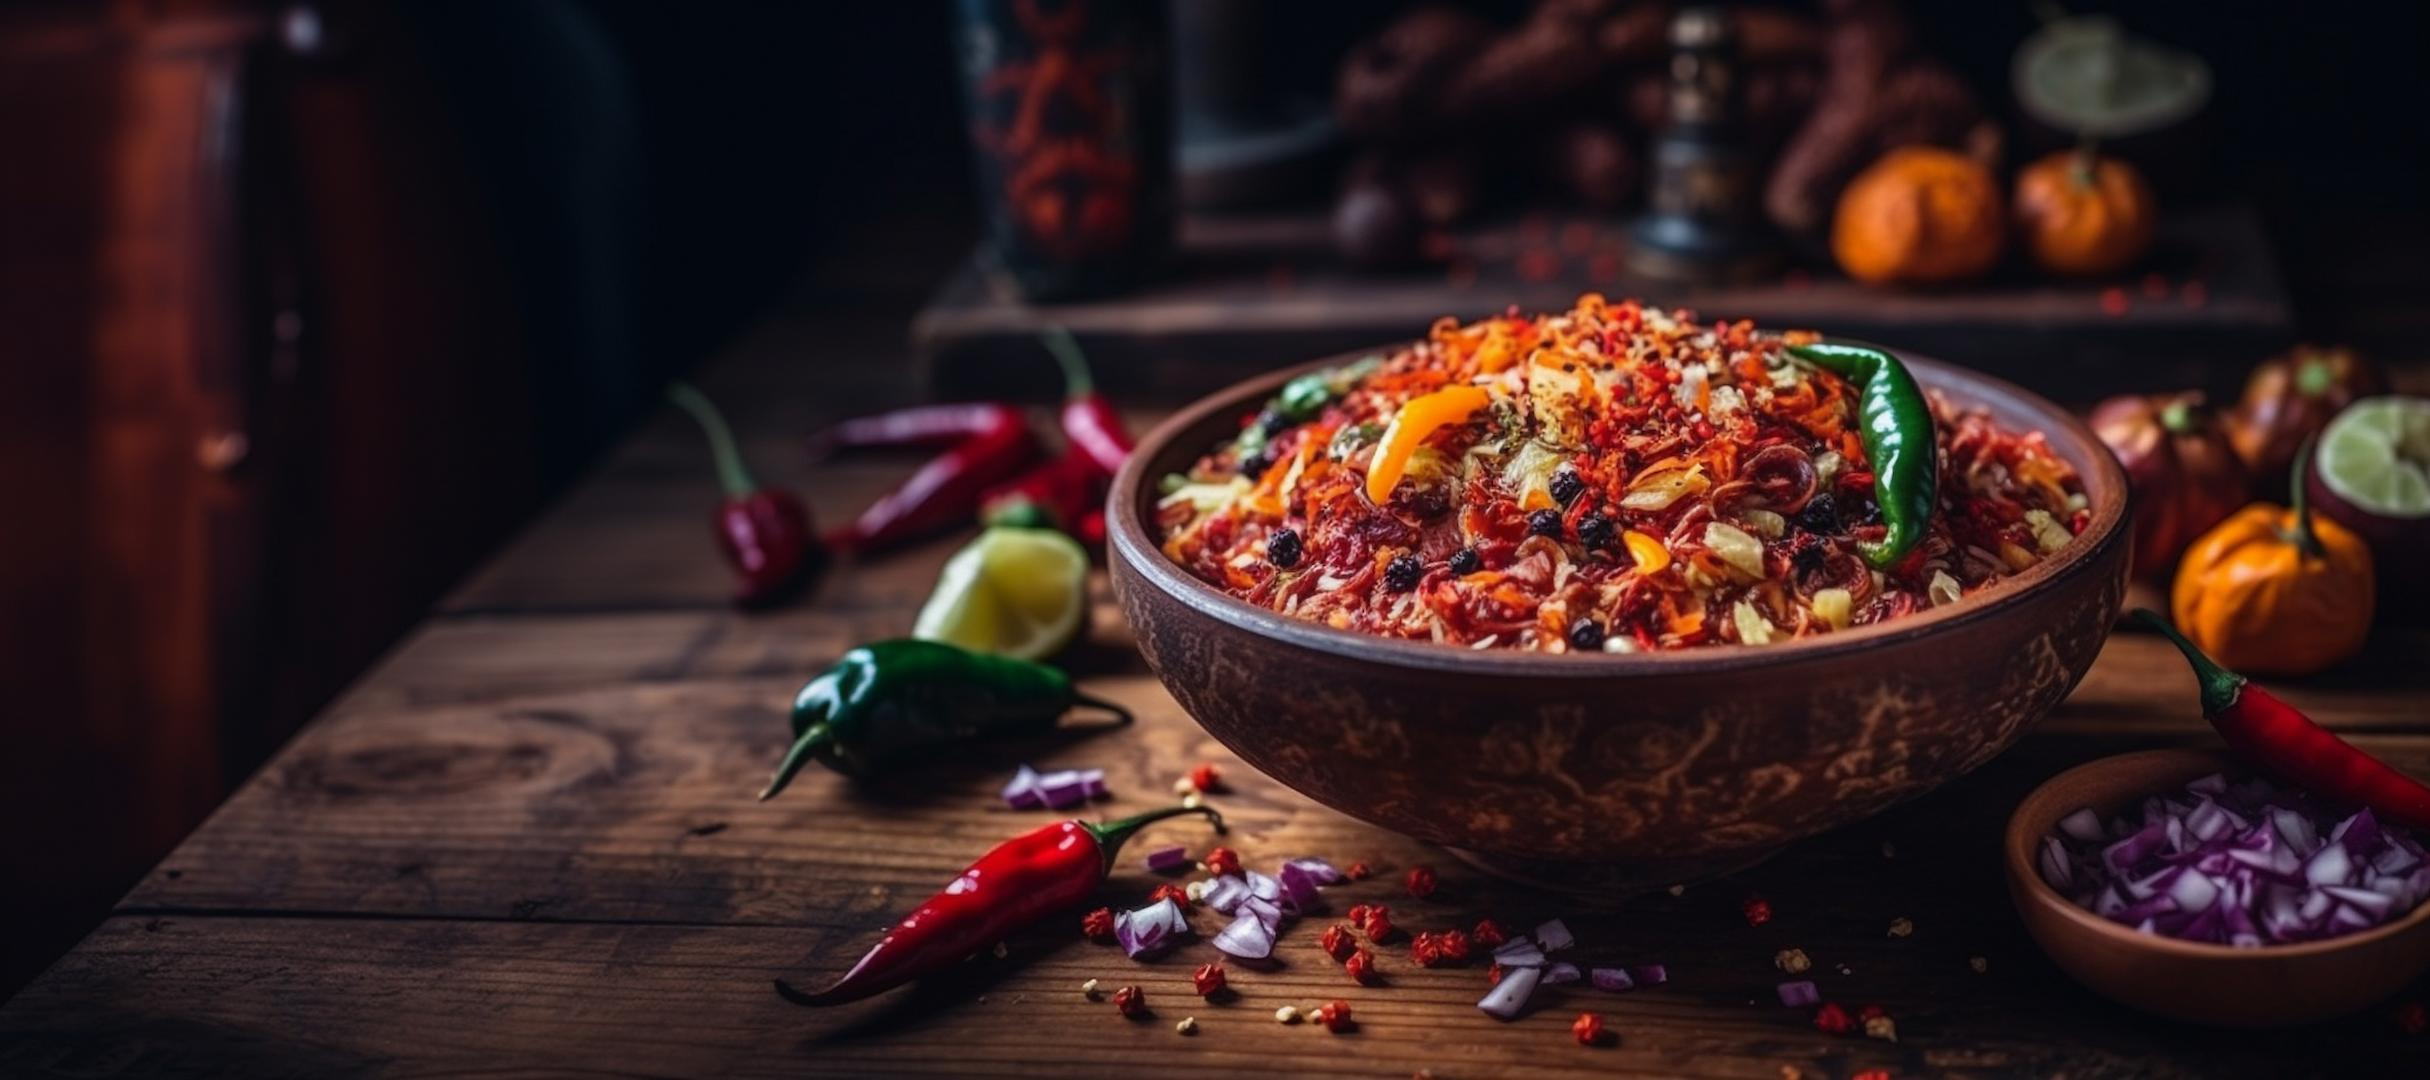
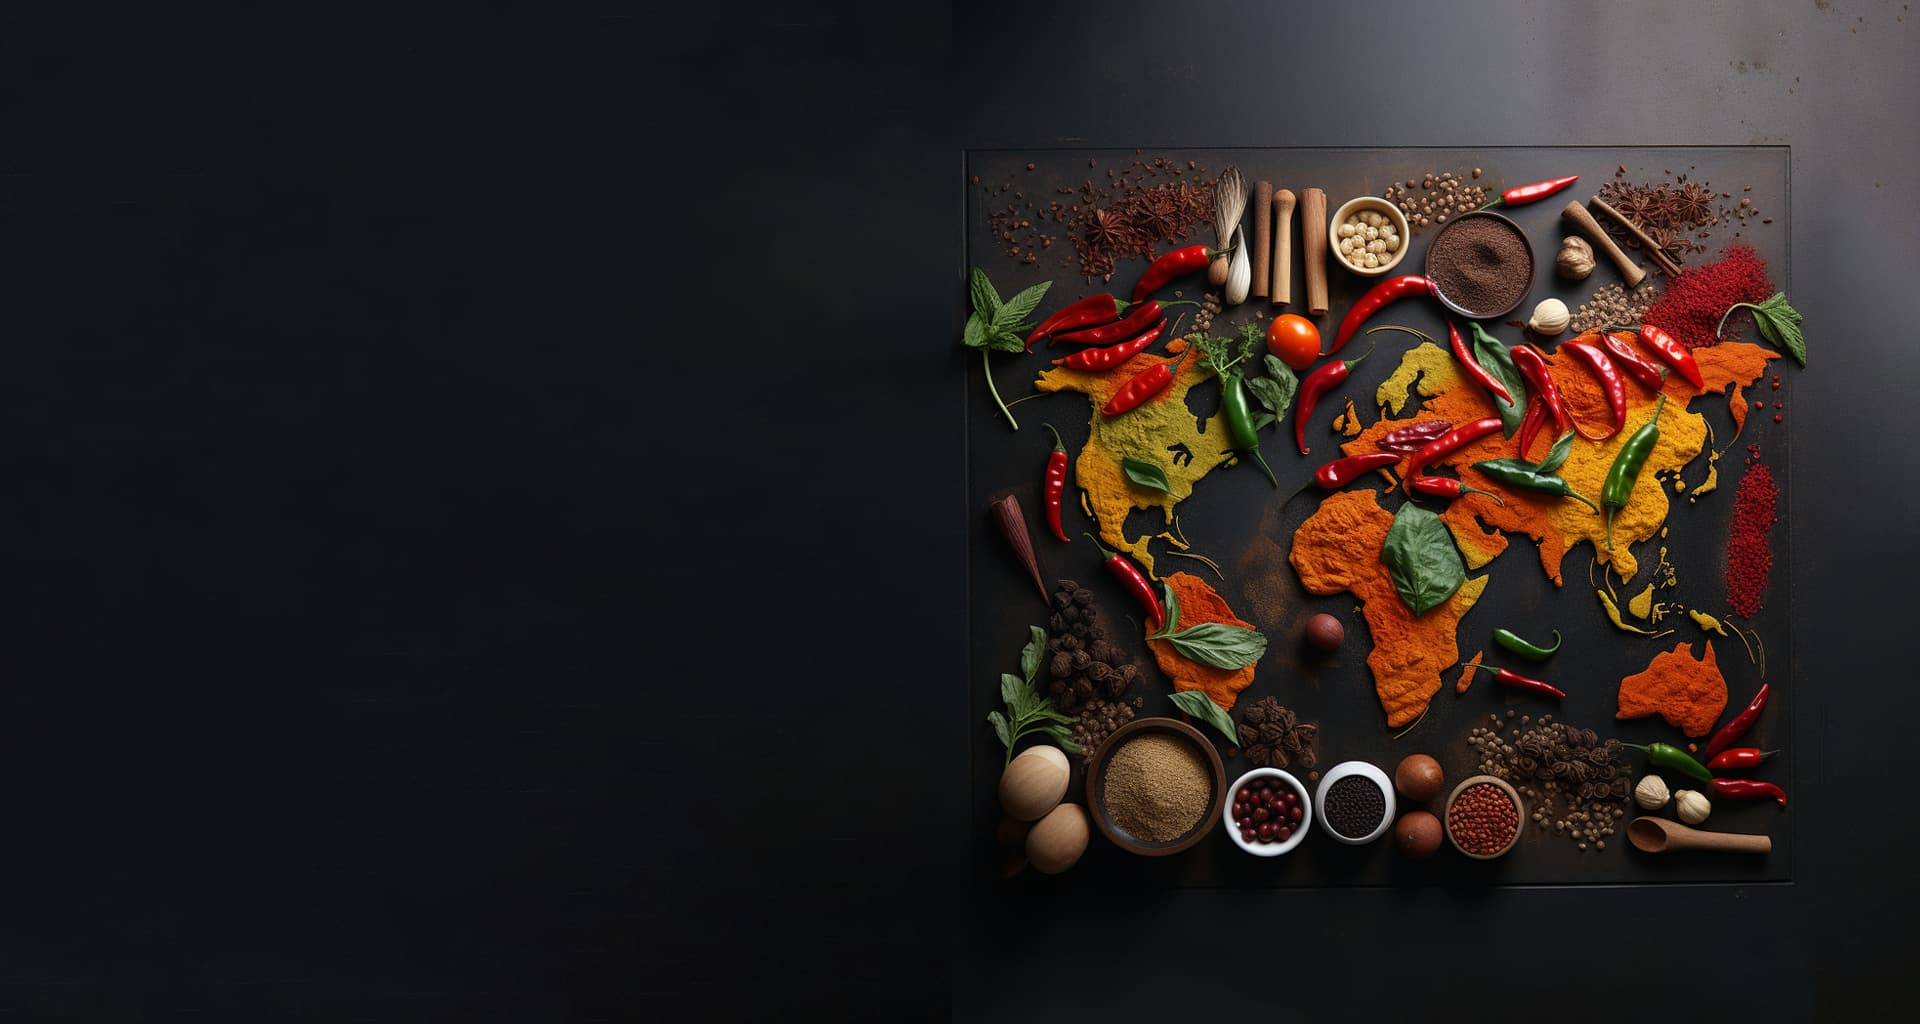
change hero image

diff --git a/src/components/HeroSection.module.css b/src/components/HeroSection.module.css
@@ -1,11 +1,6 @@
 .heroSection {
   height: calc(100vh - 8rem);
-  background-image: linear-gradient(
-      90deg,
-      rgba(240, 108, 13, 0.349) 59%,
-      rgba(182, 21, 0, 0.274) 100%
-    ),
-    url('../../public/maptheheat-hero-sm.jpg');
+  background-image: url('../../public/maptheheat-hero-sm.jpg');
   background-size: cover;
   background-position: center;
   display: grid;
@@ -26,6 +21,7 @@
   font-weight: 700;
   line-height: 1.2;
   margin-bottom: 4rem;
+  color: #fff;
 }
 
 .ctaSection p {
